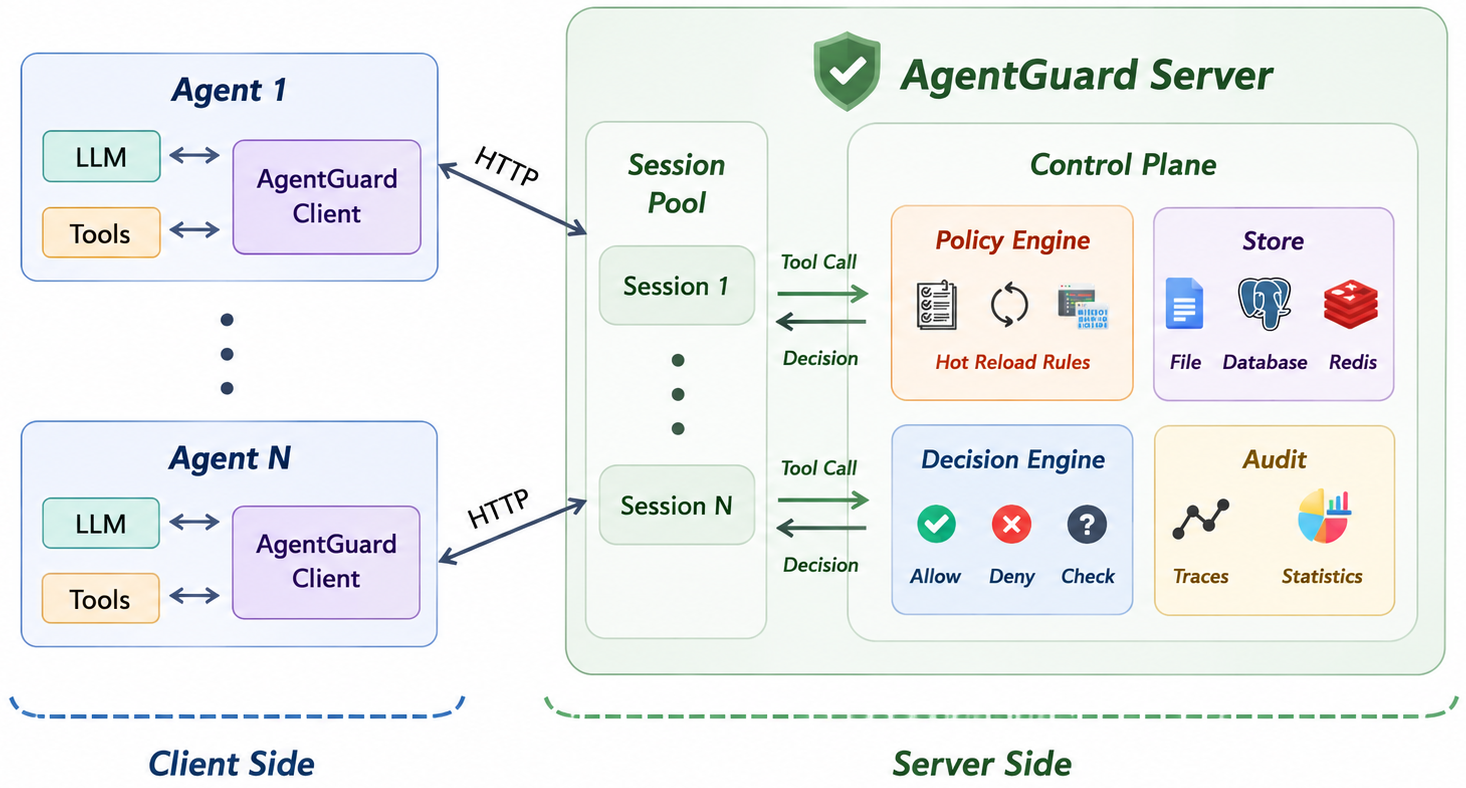
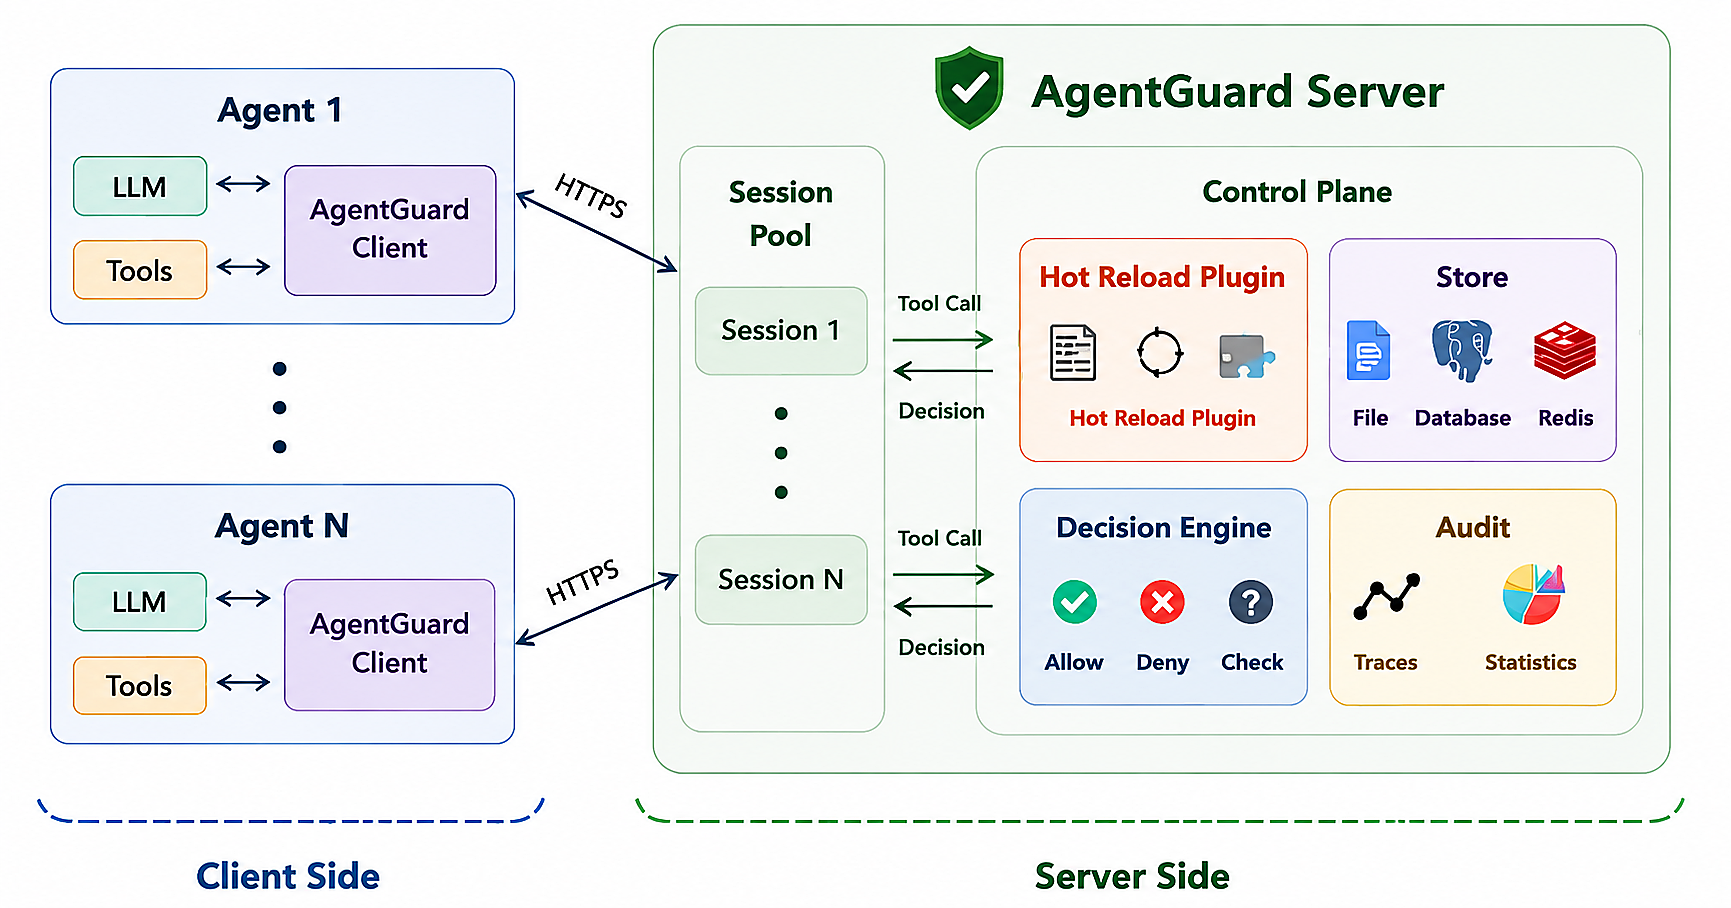
update readme

diff --git a/README.md b/README.md
@@ -366,7 +366,7 @@ As illustrated below, existing tool-call-based defenses address parts of the pro
 The high-level architecture of AgentGuard is shown below.
 
 <p align="center">
-  <img src="./docs/figs/overview.png" alt="AgentGuard architecture" width="50%" />
+  <img src="./docs/figs/overview.png" alt="AgentGuard architecture" width="70%" />
 </p>
 
 - **Client**: With minimal code modifications, the AgentGuard client integrates into agent frameworks and can intercept before and after LLM calls, as well as before and after tool invocations. It can perform lightweight local filtering on the client side and forward events to the server for deeper inspection by configured plugins.

diff --git a/README_CN.md b/README_CN.md
@@ -363,7 +363,7 @@ https://github.com/user-attachments/assets/75a17e37-7f51-4c59-96fa-ea449eb79859
 下图展示了 AgentGuard 的高层架构。
 
 <p align="center">
-  <img src="./docs/figs/overview.png" alt="AgentGuard 设计架构图" width="50%" />
+  <img src="./docs/figs/overview.png" alt="AgentGuard 设计架构图" width="70%" />
 </p>
 
 - **客户端**：通过极少量代码修改，客户端可集成进智能体框架中，并能够在 LLM 调用前后、工具调用前后进行拦截。客户端可以先在本地执行轻量级过滤，再将事件发送到服务端，由服务端根据配置的 plugin 进一步检测。